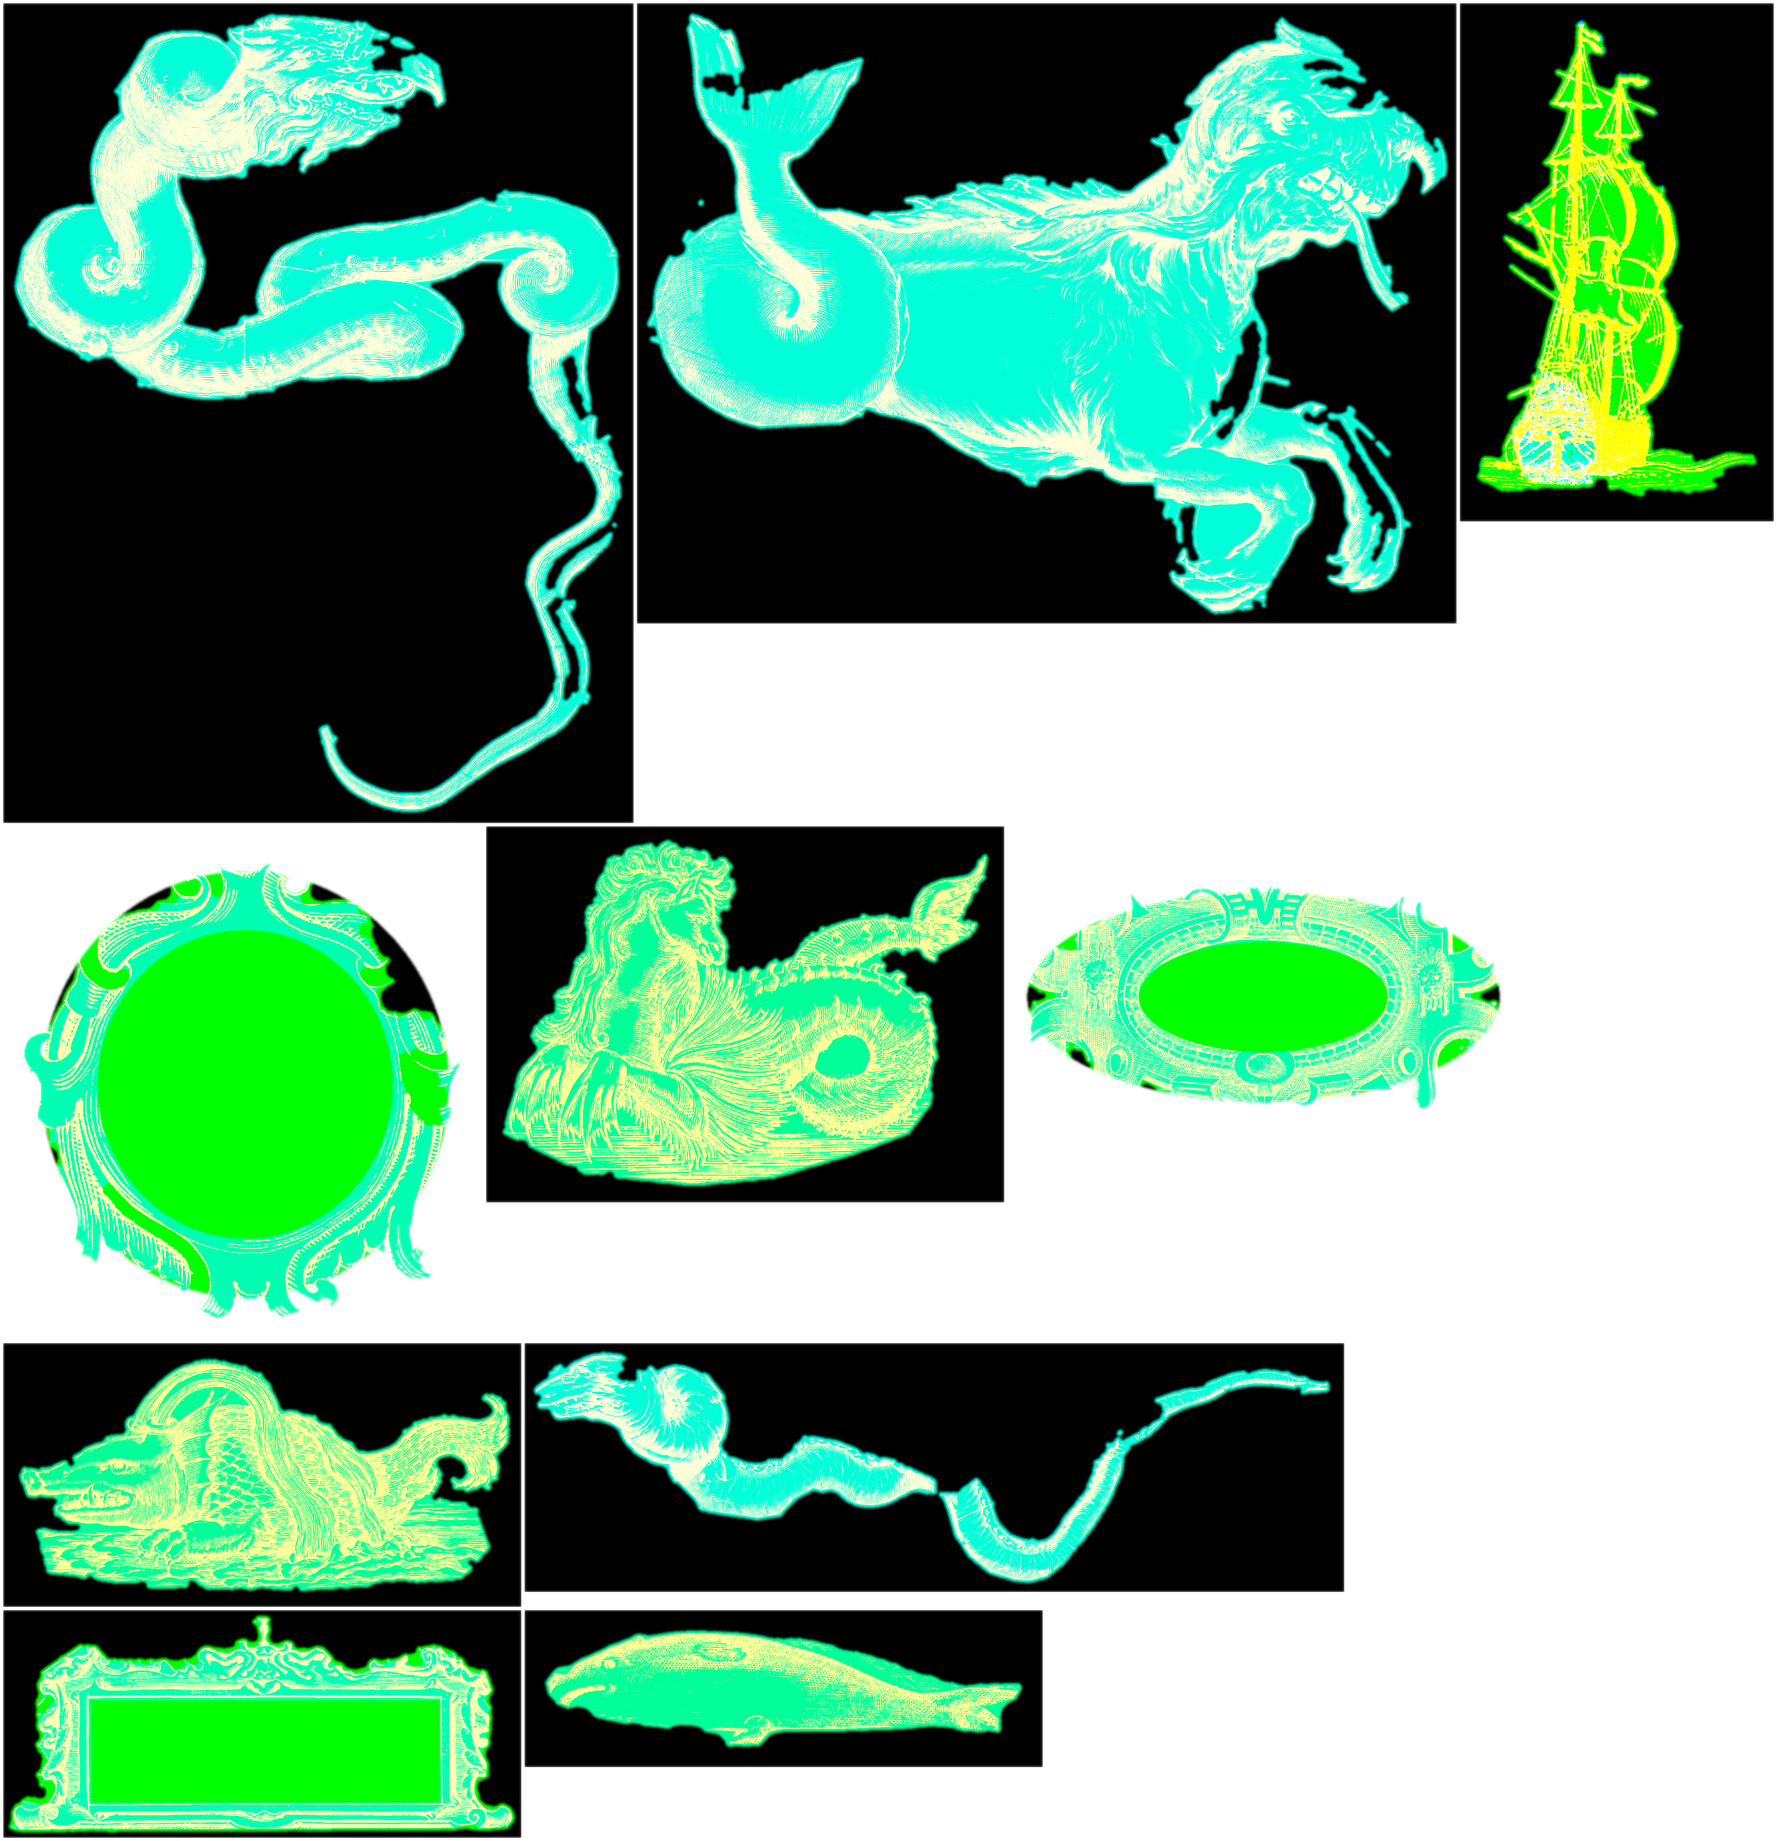
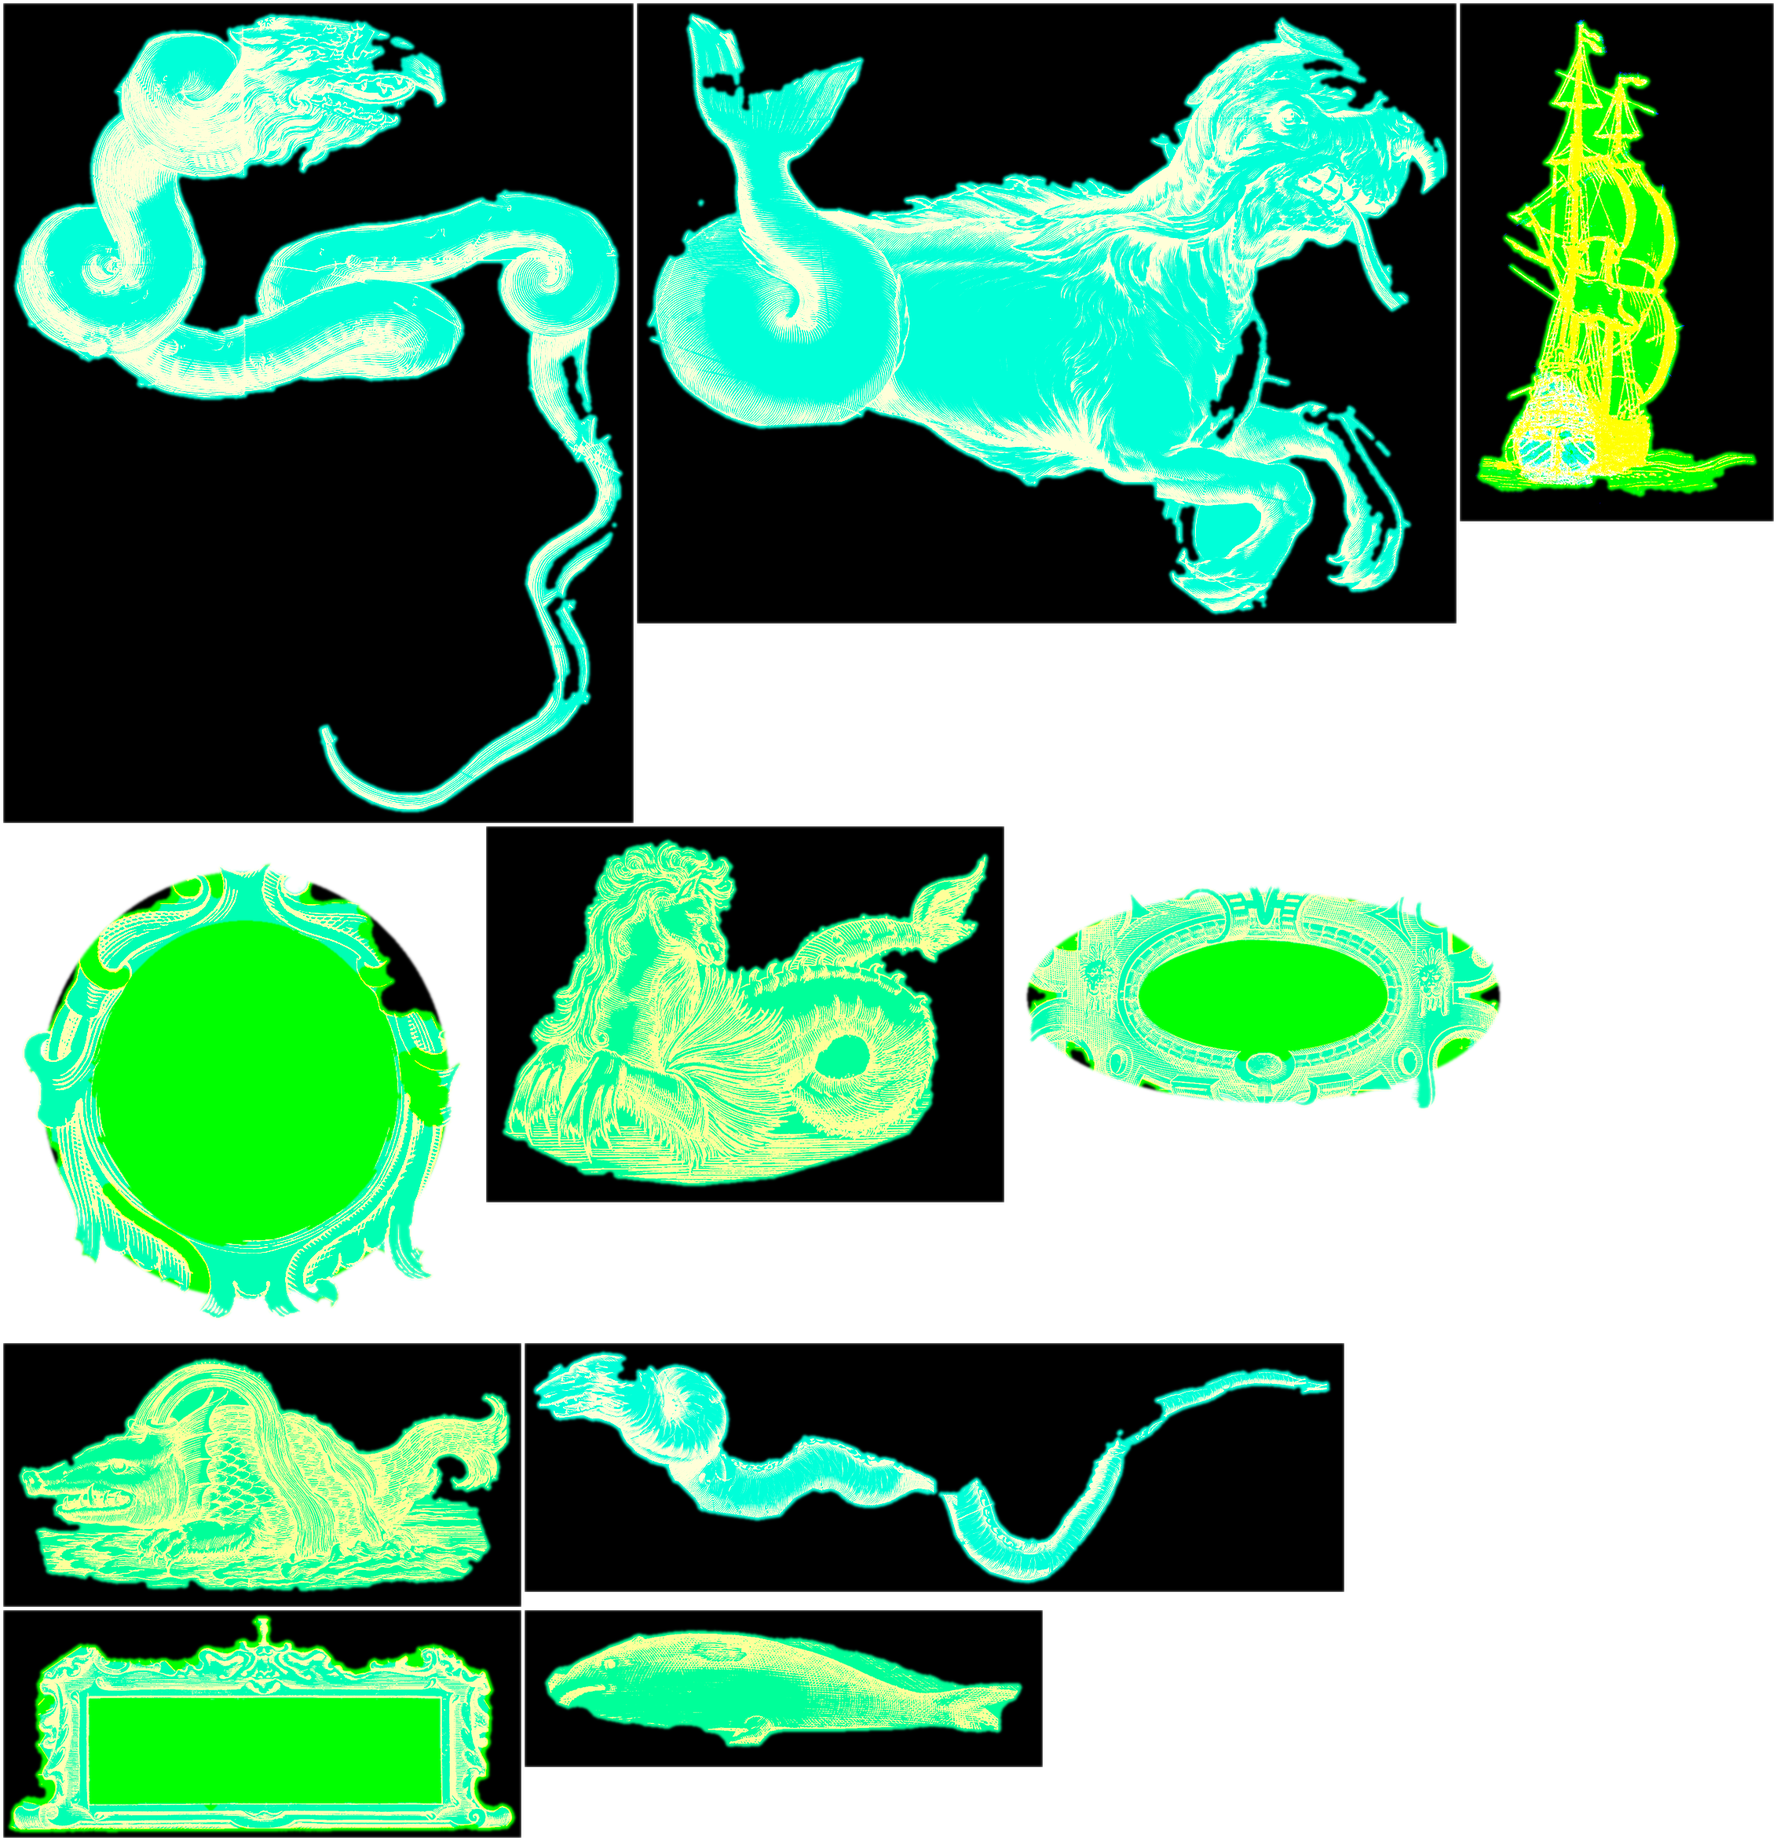
Antique look: the cartouche's washes stay inside its lines (owner: "the cartouche still has some colours that don't belong"). Measured on every design, desktop and phone: the sprites carry no scan colour at all (RGB 0, ink in alpha), so the stray colour was each frame's wash landing 2 to 5 px past i

diff --git a/tests/tools/antique/cartoucheWashInsideLines.test.ts b/tests/tools/antique/cartoucheWashInsideLines.test.ts
@@ -1,0 +1,60 @@
+/**
+ * A cartouche frame's wash ends under its engraved outline, as a colourist's
+ * brush did: a wash mask blurred or grown past the lines lays a fringe of
+ * pigment on the plate's paper (owner: "colours that don't belong"). Measured on
+ * the packed atlas: of the wash's outer boundary (where it meets the paper round
+ * the frame), the share with no printing ink beside it. Before the inset it was ~60%.
+ */
+
+import { fileURLToPath } from 'node:url';
+
+import sharp from 'sharp';
+import { describe, expect, it } from 'vitest';
+
+import { ANTIQUE_ORNAMENT_ATLAS } from '../../../src/data/rendering/antiqueOrnamentAtlas';
+import { dilateMaskDisc } from '../../../tools/utils/image/dilateMaskDisc';
+import { labelMaskRegions } from '../../../tools/utils/image/labelMaskRegions';
+
+const ROOT = fileURLToPath(new URL('../../../', import.meta.url));
+const CARTOUCHES = ['scrollwork', 'strapwork', 'tablet'] as const;
+/** decor.wesl's ink ramp starts at 0.2: fainter atlas ink never prints. */
+const PRINTS = 0.2 * 255;
+const WASHED = 5;
+/** The curls' open sides, where the frame's close bridges paper, end a wash without a line. */
+const MAX_OFF_INK_SHARE = 0.25;
+
+describe('cartouche frame wash', () => {
+  it.each(CARTOUCHES)('%s ends its wash under its outline', async (id) => {
+    const { data } = await sharp(`${ROOT}public/antique/ornaments.png`)
+      .raw()
+      .toBuffer({ resolveWithObject: true });
+    const r = ANTIQUE_ORNAMENT_ATLAS.sprites[id]!;
+    const n = r.w * r.h;
+    const ink = new Uint8Array(n);
+    const wash = new Uint8Array(n);
+    for (let j = 0; j < r.h; j++)
+      for (let i = 0; i < r.w; i++) {
+        const o = ((r.y + j) * ANTIQUE_ORNAMENT_ATLAS.width + r.x + i) * 4;
+        ink[j * r.w + i] = data[o]! >= PRINTS ? 1 : 0;
+        wash[j * r.w + i] = data[o + 2]! > WASHED ? 1 : 0;
+      }
+    // The paper round the frame: the bare region holding the sprite's corner.
+    const { labels } = labelMaskRegions(
+      ink.map((v, k) => (v || wash[k] ? 0 : 1)),
+      r.w,
+      r.h,
+    );
+    const outer = labels.map((l) => (l === labels[0] ? 1 : 0));
+    const besideOuter = dilateMaskDisc(Uint8Array.from(outer), r.w, r.h, 1);
+    const besideInk = dilateMaskDisc(ink, r.w, r.h, 1);
+    let edge = 0;
+    let offInk = 0;
+    for (let k = 0; k < n; k++) {
+      if (!wash[k] || !besideOuter[k]) continue;
+      edge++;
+      if (!besideInk[k]) offInk++;
+    }
+    expect(edge).toBeGreaterThan(500);
+    expect(offInk / edge).toBeLessThan(MAX_OFF_INK_SHARE);
+  });
+});

diff --git a/tools/antique/packOrnaments.ts b/tools/antique/packOrnaments.ts
@@ -94,6 +94,10 @@ const INK_PUSH_OVERRIDE: Partial<Record<(typeof SPRITE_IDS)[number], readonly [n
 };
 /** A cartouche frame's wash, as a share of full: a thin colourist's wash, not a flat poster yellow. */
 const FRAME_WASH = 0.7;
+/** How far a frame's wash stops inside its outline: past the blur's reach, so none lands on the paper. */
+const WASH_INSET_PX = 1.5;
+/** How far the field's paper reaches out from its oval to the frame's inner ink. */
+const FIELD_REACH_PX = 12;
 /**
  * Constellation figures print through the atlas's mip chain (`decor.wesl`), so
  * they keep their source resolution and a gentler push: each hatch line stays a
@@ -155,6 +159,30 @@ function insideField(
   return field.shape === 'rect' ? Math.abs(u) <= 1 && Math.abs(v) <= 1 : u * u + v * v <= 1;
 }
 
+/**
+ * A frame's wash: the area its lines enclose, pulled in by `WASH_INSET_PX`, less the bare
+ * paper between the field's oval and the frame's inner ink (the scrollwork has no inner
+ * rule, so the oval alone left a lineless band of pigment round the title).
+ */
+function washMask(
+  inLines: Uint8Array,
+  printed: Uint8Array,
+  inField: (i: number) => boolean,
+  w: number,
+  h: number,
+): Uint8Array {
+  const outside = dilateMaskDisc(
+    inLines.map((v) => 1 - v),
+    w,
+    h,
+    WASH_INSET_PX,
+  );
+  let field = Uint8Array.from(inLines, (_, i) => (inField(i) ? 1 : 0));
+  for (let k = 0; k < FIELD_REACH_PX; k++)
+    field = dilateMaskDisc(field, w, h, 1).map((v, i) => v & (1 - printed[i]!));
+  return inLines.map((_, i) => (outside[i] || field[i] ? 0 : 1));
+}
+
 async function buildSprite(id: (typeof SPRITE_IDS)[number]): Promise<OrnamentSprite> {
   const figure = FIGURE_IDS.has(id);
   const side = figure ? FIGURE_SIDE_PX : MAX_SIDE_PX;
@@ -198,10 +226,13 @@ async function buildSprite(id: (typeof SPRITE_IDS)[number]): Promise<OrnamentSpr
         h,
       )
     : null;
-  const wash = inLines
+  // Its soft edge pulled in under the outline, so the blur and the plate's magnification
+  // don't lay a fringe of pigment on the paper past it (owner: "colours that don't belong").
+  const washed = inLines && washMask(inLines, printed, (i) => inField(i, 1), w, h);
+  const wash = washed
     ? Uint8Array.from(
         gaussianBlurFloat32(
-          Float32Array.from(inLines, (v, i) => (inField(i, 1) ? 0 : v)),
+          Float32Array.from(washed, (v, i) => (inField(i, 1) ? 0 : v)),
           w,
           h,
           WASH_EDGE_SIGMA_PX,

diff --git a/tools/antique/sprites/extract_engraving.py b/tools/antique/sprites/extract_engraving.py
@@ -1,0 +1,80 @@
+"""Cut an engraved cartouche from a hand-coloured map scan as an ink-alpha sprite (RGB black, A = ink).
+usage: extract_engraving.py <scan.jpg> <out.png> <spec.json> [preview.png]  (see README.md)"""
+import sys, json
+import numpy as np
+from PIL import Image, ImageDraw
+from scipy import ndimage as ndi
+Image.MAX_IMAGE_PIXELS = None
+
+src, out, spec = sys.argv[1], sys.argv[2], json.load(open(sys.argv[3]))
+x0, y0, x1, y1 = spec['crop']
+im = np.asarray(Image.open(src).convert('RGB').crop((x0, y0, x1, y1))).astype(np.float32) / 255
+# Max channel: a colourist's wash reads as paper, only the engraved line as ink.
+lum = im.max(axis=2)
+bg = ndi.gaussian_filter(ndi.maximum_filter(lum, size=spec.get('bgSize', 41)), 12)
+ink = np.clip(1 - lum / np.maximum(bg, 1e-3), 0, 1)
+lo, hi = spec.get('push', [0.12, 0.45])
+raw = ink
+ink = np.clip((raw - lo) / (hi - lo), 0, 1)
+h, w = ink.shape
+binary = ink > 0.3
+if 'inkPush' in spec:
+    ilo, ihi = spec['inkPush']
+    ink = np.clip((raw - ilo) / (ihi - ilo), 0, 1)
+
+def disc(r):
+    y, x = np.ogrid[-r:r + 1, -r:r + 1]
+    return x * x + y * y <= r * r
+
+# The body: hatching closed into masses, thin ruled lines (rhumbs, graticule) opened away.
+core = ndi.binary_opening(binary, disc(spec.get('core', 0))) if spec.get('core') else binary
+body = ndi.binary_closing(core, disc(spec.get('close', 8)))
+body = ndi.binary_fill_holes(body)
+body = ndi.binary_opening(body, disc(spec.get('open', 6)))
+lab, n = ndi.label(body)
+sizes = ndi.sum(body, lab, range(1, n + 1))
+keep = np.isin(lab, 1 + np.flatnonzero(sizes >= spec.get('minArea', 4000)))
+keep = ndi.binary_dilation(keep, disc(spec.get('grow', 5)))
+if spec.get('force'):
+    fm = Image.new('L', (w, h), 0); df = ImageDraw.Draw(fm)
+    for poly in spec['force']:
+        df.polygon([tuple(q) for q in poly], fill=255)
+    keep = keep | (np.asarray(fm) > 0)
+mask = Image.new('L', (w, h), 0)
+d = ImageDraw.Draw(mask)
+if 'keep' in spec:
+    for poly in spec['keep']:
+        d.polygon([tuple(p) for p in poly], fill=255)
+else:
+    d.rectangle((0, 0, w, h), fill=255)
+for poly in spec.get('erase', []):
+    d.polygon([tuple(p) for p in poly], fill=0)
+for e in spec.get('eraseEllipse', []):
+    cx, cy, rx, ry = e
+    d.ellipse((cx - rx, cy - ry, cx + rx, cy + ry), fill=0)
+for r in spec.get('eraseRect', []):
+    d.rectangle(tuple(r), fill=0)
+m = np.asarray(mask) > 0
+ink = ink * (keep & m)
+# Drop specks left by the cut.
+lab, n = ndi.label(ink > 0.2)
+sizes = ndi.sum(ink > 0.2, lab, range(1, n + 1))
+ink = ink * (np.isin(lab, 1 + np.flatnonzero(sizes >= spec.get('minSpeck', 12))) | (ink <= 0.2))
+ys, xs = np.nonzero(ink > 0.05)
+pad = 2
+ink = ink[max(0, ys.min() - pad):ys.max() + pad + 1, max(0, xs.min() - pad):xs.max() + pad + 1]
+print('trim offset', max(0, xs.min() - pad), max(0, ys.min() - pad), 'size', ink.shape[::-1])
+img = Image.fromarray((ink * 255).astype(np.uint8), 'L')
+scale = spec.get('outWidth', 1024) / img.width
+img = img.resize((round(img.width * scale), round(img.height * scale)), Image.LANCZOS)
+if spec.get('eraseOut'):
+    em = Image.new('L', img.size, 255); de = ImageDraw.Draw(em)
+    for poly in spec['eraseOut']:
+        de.polygon([tuple(q) for q in poly], fill=0)
+    img = Image.fromarray((np.asarray(img).astype(np.float32) * (np.asarray(em) / 255)).astype(np.uint8), 'L')
+rgba = Image.new('RGBA', img.size, (0, 0, 0, 0)); rgba.putalpha(img)
+rgba.save(out)
+print('out', img.size, 'scale', scale)
+if len(sys.argv) > 4:
+    prev = Image.new('RGB', img.size, (240, 232, 214)); prev.paste((30, 20, 10), (0, 0), img)
+    prev.save(sys.argv[4])

diff --git a/tools/antique/sprites/erase_rule_boxes.py b/tools/antique/sprites/erase_rule_boxes.py
@@ -1,0 +1,35 @@
+"""Erase thin ruled-line ink (strokes under 5 px wide) inside hand-placed boxes of the strapwork sprite.
+usage: erase_rule_boxes.py <in.png> <out.png> <diff.png>  (see README.md)"""
+import sys, numpy as np
+from PIL import Image
+from scipy import ndimage as ndi
+BOXES = [  # x0, y0, x1, y1 in sprite px: Ortelius' graticule left in the strapwork's gaps
+    (836, 165, 933, 177), (987, 165, 1006, 177), (953, 90, 974, 139),           # top right
+    (864, 431, 906, 440), (988, 430, 1024, 441), (905, 413, 914, 458),         # loop + right of roll
+    (865, 445, 920, 510), (990, 434, 1024, 476), (866, 518, 979, 528),
+    (938, 518, 959, 536), (970, 334, 985, 352), (796, 448, 817, 486),
+    (780, 590, 799, 610), (855, 561, 864, 569),
+    (6, 166, 19, 175), (76, 166, 84, 175), (158, 166, 172, 175), (178, 32, 194, 41),  # top left
+    (0, 280, 14, 310), (54, 516, 92, 536), (11, 429, 21, 436), (11, 453, 18, 462),
+    (132, 517, 143, 530), (248, 519, 262, 526),
+    (613, 54, 627, 70), (502, 0, 509, 7),                                         # crest
+    (668, 524, 762, 533), (578, 558, 632, 566), (398, 558, 416, 566),             # bottom
+]
+src, out, diff = sys.argv[1:4]
+a = np.asarray(Image.open(src)).astype(np.float32); ink = a[..., 3] / 255
+b = ink > 0.3
+cross = ndi.generate_binary_structure(2, 1)
+disc2 = np.add.outer(np.arange(-2, 3) ** 2, np.arange(-2, 3) ** 2) <= 4
+thick = ndi.binary_dilation(ndi.binary_opening(b, disc2), cross)
+box = np.zeros_like(b)
+for x0, y0, x1, y1 in BOXES:
+    box[y0:y1, x0:x1] = True
+cut = box & ~thick & (ink > 0.02)
+o = a.copy(); o[..., 3] = np.where(cut, 0, a[..., 3])
+Image.fromarray(o.astype(np.uint8), 'RGBA').save(out)
+h, w = b.shape
+prev = np.full((h, w, 3), [245, 238, 220], np.float32)
+prev = prev * (1 - ink[..., None]) + np.array([30, 20, 10]) * ink[..., None]
+prev[cut & (ink > 0.1)] = [220, 30, 30]
+Image.fromarray(prev.astype(np.uint8)).save(diff)
+print('cut px', int((cut & (ink > 0.1)).sum()))

diff --git a/tools/antique/sprites/README.md b/tools/antique/sprites/README.md
@@ -1,0 +1,19 @@
+# Antique sprites — re-cutting a cartouche from its scan
+
+Rebuilds `data/antique/sprites/strapwork.png` and `tablet.png` (ink-density masks: RGB black,
+alpha = ink, paper = 0) from the public-domain scans listed in
+[`data/antique/PROVENANCE.md`](../../../data/antique/PROVENANCE.md), which also records how each
+was cleaned. Both commands reproduce the committed sprites byte for byte. The other sprites were
+cut by hand before these scripts existed.
+
+## Steps (Python with numpy, scipy, Pillow; `python3 -I`)
+
+1. Download the full-size Commons file of each source (the scan size in PROVENANCE.md; the crop
+   boxes in the specs are in its pixels).
+2. `extract_engraving.py <scan.jpg> <out.png> <spec.json> [preview.png]` — reads ink from the
+   scan's max channel, so a colourist's wash reads as paper and only the engraved line as ink;
+   cuts the map's ruled lines away with a body mask; trims and resizes. Specs: `tablet.json`
+   (Goos, *Pascaart van de Noort Zee*) and `strapwork.json` (Ortelius, *Aevi Veteris*).
+3. Strapwork only: `erase_rule_boxes.py <extracted.png> data/antique/sprites/strapwork.png <diff.png>`
+   — erases the graticule ends left in the straps' gaps (hand-placed boxes, strokes under 5 px).
+4. `npm run pack-ornaments` packs the sprites into `public/antique/ornaments.png`.

diff --git a/docs/superpowers/plans/2026-11-07-antique-atlas-look.md b/docs/superpowers/plans/2026-11-07-antique-atlas-look.md
@@ -337,3 +337,9 @@ label rules; `styles/antique.css`.
 **Deferral boundary:** Flamsteed/Bode constellation figures for every constellation (backlog
 `2026-09-14-antique-atlas-constellation-figures`); the dome rig; a second period look; true
 globe-space (lat/lon) hatching, which needs a surface-parameter target from the body shaders.
+
+### Task 38: Cartouche colours inside the lines (owner, 2026-11-08: "the cartouche still has some colours that don't belong")
+
+- [x] Measured on all three designs (desktop and phone): the sprites carry no scan colour (RGB 0 everywhere); the stray colour was each frame's wash landing on the paper 2 to 5 px past its outline, plus a lineless gamboge band round the scrollwork's field.
+- [x] The packer pulls a frame's wash 1.5 px inside its outline and cuts the field's paper out to the frame's inner ink; decor.wesl keeps the brush's stray inside the wash's own outline. A guard test checks the packed atlas.
+- [x] The strapwork and tablet extraction scripts moved to `tools/antique/sprites/` (they rebuild both sprites byte for byte).

diff --git a/data/antique/PROVENANCE.md b/data/antique/PROVENANCE.md
@@ -52,6 +52,7 @@ long side.
   strapwork's top-left scroll, lighter than the rest, is forced into the mask by its own polygon.
   The field (Ortelius' oval imprint, Goos' scale bars) is erased; the crop is trimmed and resized to
   1024 px wide.
+  Rebuild both with `tools/antique/sprites/` (README there; the specs hold the crops and outlines).
 - **ship:** Goos labels no ship type; it is a typical Dutch three-masted merchantman of the 1660s,
   seen from the stern. The colour layer carries the washes: brown hull, green sea.
 
